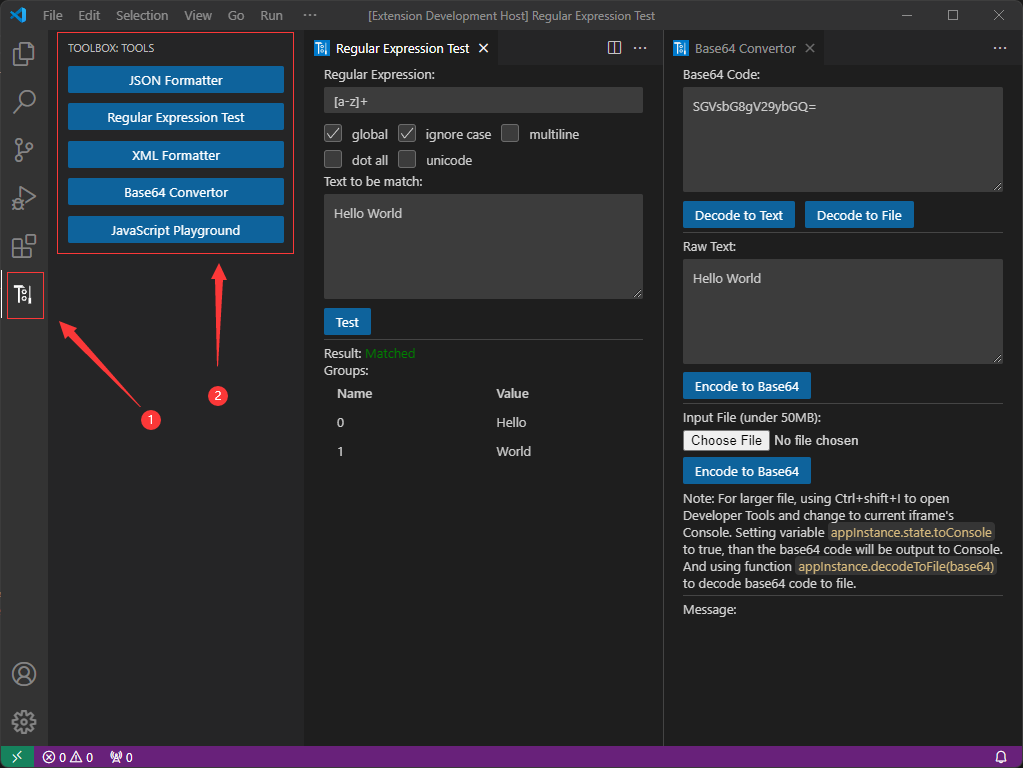
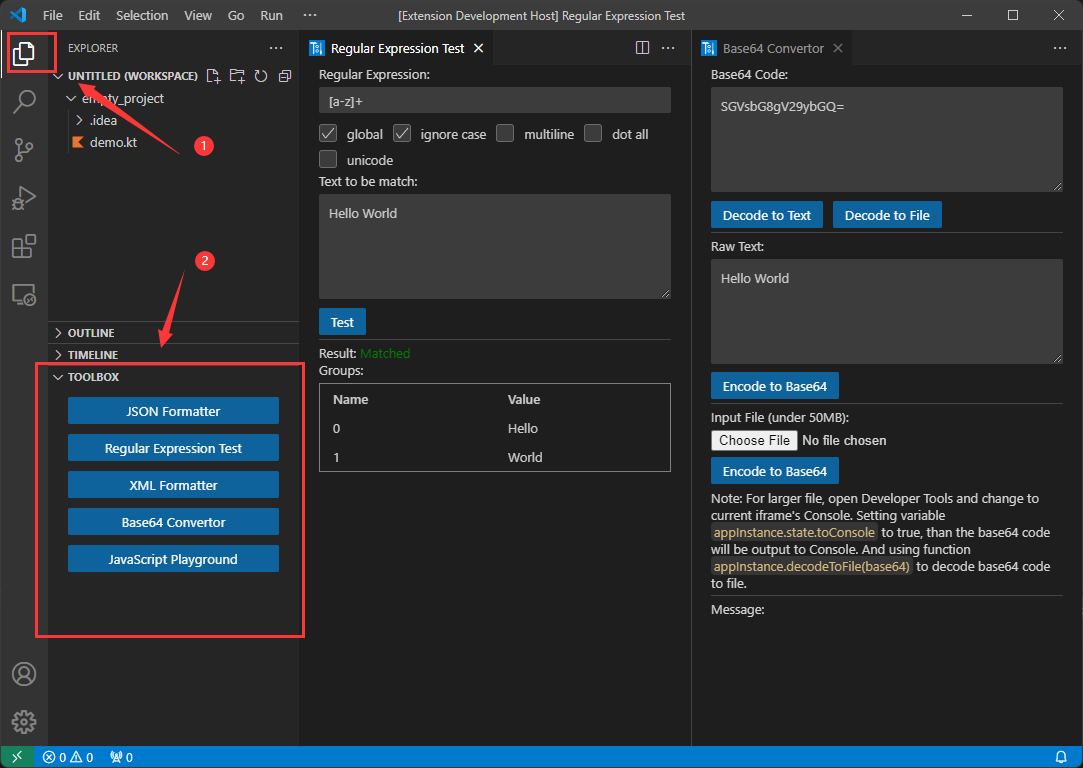
Change toolbox view from activity bar to explorer menu.

diff --git a/src/component/toolbox_view_provider.ts b/src/component/toolbox_view_provider.ts
@@ -8,9 +8,9 @@ import javascript_playground from "./action/javascript_playground"
 import base64_convertor from "./action/base64_convertor"
 import regular_expression_test from "./action/regular_expression_test"
 
-class ToolboxBarProvider implements vscode.WebviewViewProvider {
+class ToolboxViewProvider implements vscode.WebviewViewProvider {
 
-    public static readonly name = "toolbox_bar_view"
+    public static readonly name = "toolbox_view"
 
     public resolveWebviewView(webviewView: vscode.WebviewView, context: vscode.WebviewViewResolveContext<unknown>, token: vscode.CancellationToken): void | Thenable<void> {
 
@@ -53,5 +53,5 @@ class ToolboxBarProvider implements vscode.WebviewViewProvider {
 }
 
 export {
-    ToolboxBarProvider,
+    ToolboxViewProvider,
 }

diff --git a/src/extension.ts b/src/extension.ts
@@ -1,12 +1,12 @@
 import vscode from "vscode"
 import { App } from "./util/app"
-import { ToolboxBarProvider } from "./component/toolbox_bar_view_provider"
+import { ToolboxViewProvider } from "./component/toolbox_view_provider"
 
 const activate = (context: vscode.ExtensionContext) => {
     App.instance().setContext(context);
 
     context.subscriptions.push(
-        vscode.window.registerWebviewViewProvider(ToolboxBarProvider.name, new ToolboxBarProvider())
+        vscode.window.registerWebviewViewProvider(ToolboxViewProvider.name, new ToolboxViewProvider())
     )
 }
 

diff --git a/static/toolbox_bar.html b/static/toolbox_bar.html
@@ -8,7 +8,7 @@
     <style>
         .button-item {
             width: 100%;
-            margin-bottom: 10px;
+            margin-top: 10px;
         }
     </style>
 </head>

diff --git a/README.md b/README.md
@@ -15,7 +15,7 @@ or
 - JavaScript Playground
 
 ## Usage
-Click the icon on activity bar to open ToolBox, than choose functions to use.
+Open the `Explorer` view and expand the `Toolbox` menu, than choose functions to use.
 
 ![screenshot](resources/screenshot.png)
 

diff --git a/CHANGELOG.md b/CHANGELOG.md
@@ -1,5 +1,8 @@
 # Change Log
 
+## 1.0.2
+- Change toolbox view from activity bar to explorer menu.
+
 ## 1.0.1
 - Fix wrong text.
 - Optimise UI.
